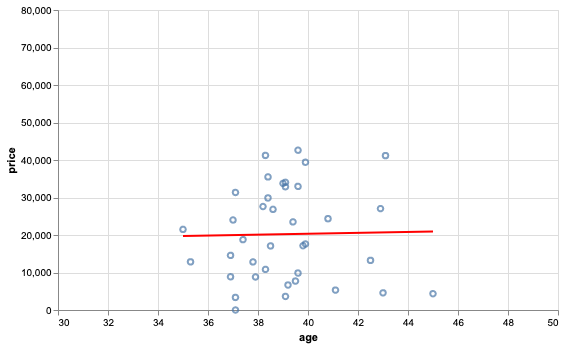
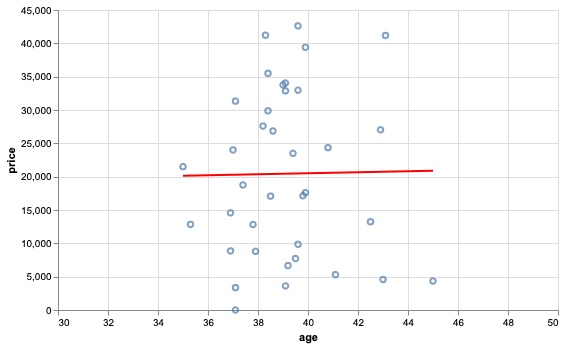
Not permanent fix; gets demo building

diff --git a/doltpy_integrations/metaflow/dolt.py b/doltpy_integrations/metaflow/dolt.py
@@ -256,11 +256,15 @@ class DoltDTBase(object):
 
     def _execute_read_action(self, action: DoltAction, config: DoltConfig):
         db = self._get_db(config)
-        starting_commit = self._get_latest_commit_hash(db)
+        #print(config)
+        starting_commit = self._get_latest_commit_hash(db, config)
         lowercase_dbname = os.path.join(config.database).replace("-", "_")
+        head = f"@@{lowercase_dbname}_head"
+        #starting_commit = db.sql(query=f"SELECT `{head}`", result_format="csv")
+        print(starting_commit)
         try:
             print(config.database, action.commit)
-            db.sql(query=f"set `@@{lowercase_dbname}_head` = '{action.commit}'")
+            db.sql(query=f"set `{head}` = '{action.commit}'")
             table = read_pandas_sql(db, action.query)
             self._add_action(action)
             self._mark_object(table, action)
@@ -269,7 +273,7 @@ class DoltDTBase(object):
             raise e
         finally:
             print(config.database, starting_commit)
-            db.sql(query=f"set `@@{lowercase_dbname}_head` = '{starting_commit}'")
+            db.sql(query=f"set `{head}` = '{starting_commit}'")
 
 
     @runtime_only
@@ -297,6 +301,7 @@ class DoltDTBase(object):
     @runtime_only
     @audit_unsafe
     def _commit_actions(self, allow_empty: bool = True):
+        print("pending writes", self._pending_writes)
         if not self._pending_writes:
             return
 
@@ -305,7 +310,7 @@ class DoltDTBase(object):
             db.add(a.table_name)
 
         db.commit(f"Run: {self._pathspec}", allow_empty=allow_empty)
-        commit = self._get_latest_commit_hash(db)
+        commit = self._get_latest_commit_hash(db, self._config)
         for a in self._pending_writes:
             self._new_actions[a.key].commit = commit
 
@@ -340,15 +345,19 @@ class DoltDTBase(object):
             )
 
         if not config.commit:
-            config.commit = self._get_latest_commit_hash(doltdb)
+            config.commit = self._get_latest_commit_hash(doltdb, config)
 
         self._dbcache[config.id] = doltdb
         return doltdb
 
     @staticmethod
-    def _get_latest_commit_hash(dolt: Dolt) -> str:
-        lg = dolt.log()
-        return lg.popitem(last=False)[0]
+    def _get_latest_commit_hash(dolt: Dolt, config: DoltConfig) -> str:
+        lowercase_dbname = os.path.join(config.database).replace("-", "_")
+        head = f"@@{lowercase_dbname}_head"
+        starting_commit = dolt.sql(query=f"SELECT `{head}`", result_format="csv")[0][head]
+        return starting_commit
+        #lg = dolt.log(number=1)
+        #return lg.popitem(last=False)[0]
 
     @property
     def _pathspec(self):

diff --git a/doltpy_integrations/metaflow/examples/hospital_bounty/flow2.py b/doltpy_integrations/metaflow/examples/hospital_bounty/flow2.py
@@ -27,7 +27,7 @@ class Flow2(FlowSpec):
 
         age.age = age.age.astype(float)
         prices.price = prices.price.astype(float)
-        prices = prices[prices.price < 90000000]
+        prices = prices[prices.price < 300000]
         df = age.set_index("state").join(prices.set_index("state")).dropna()
 
         chart = alt.Chart(df).mark_point().encode(
